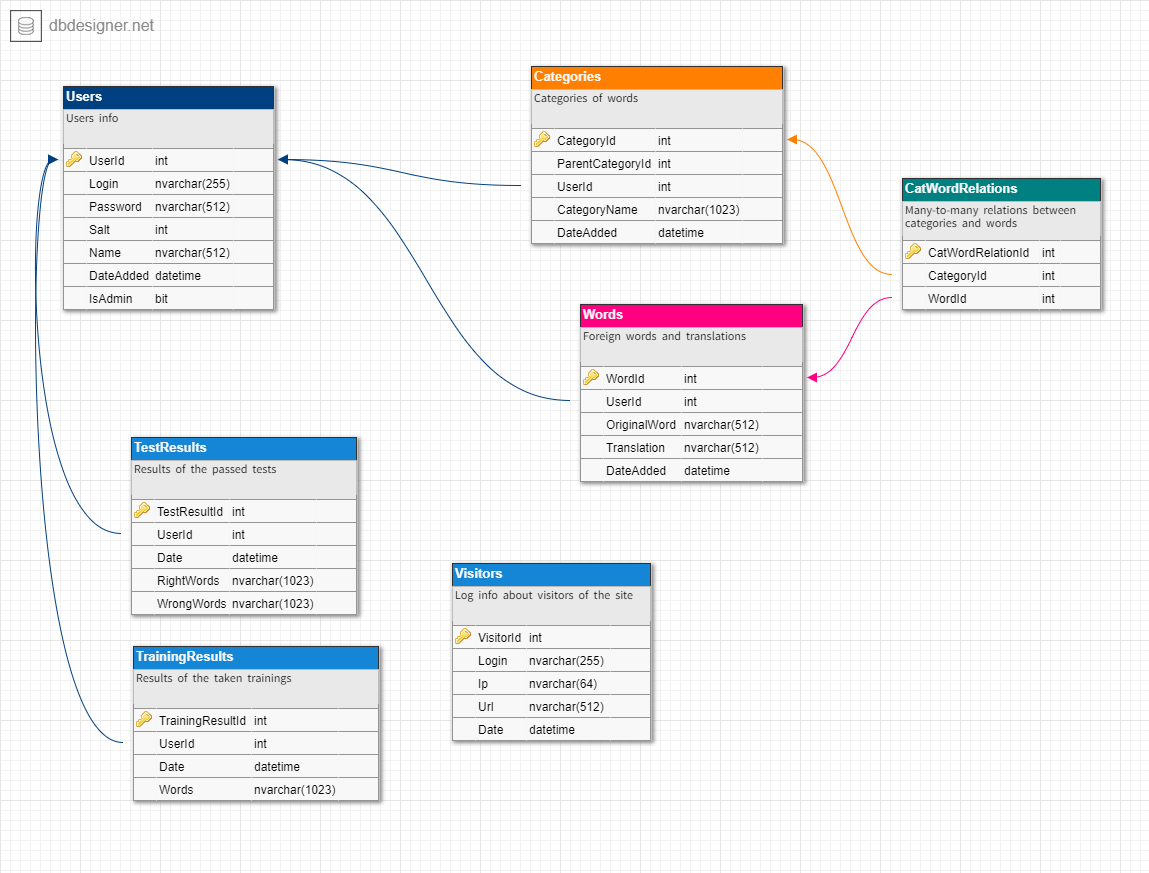
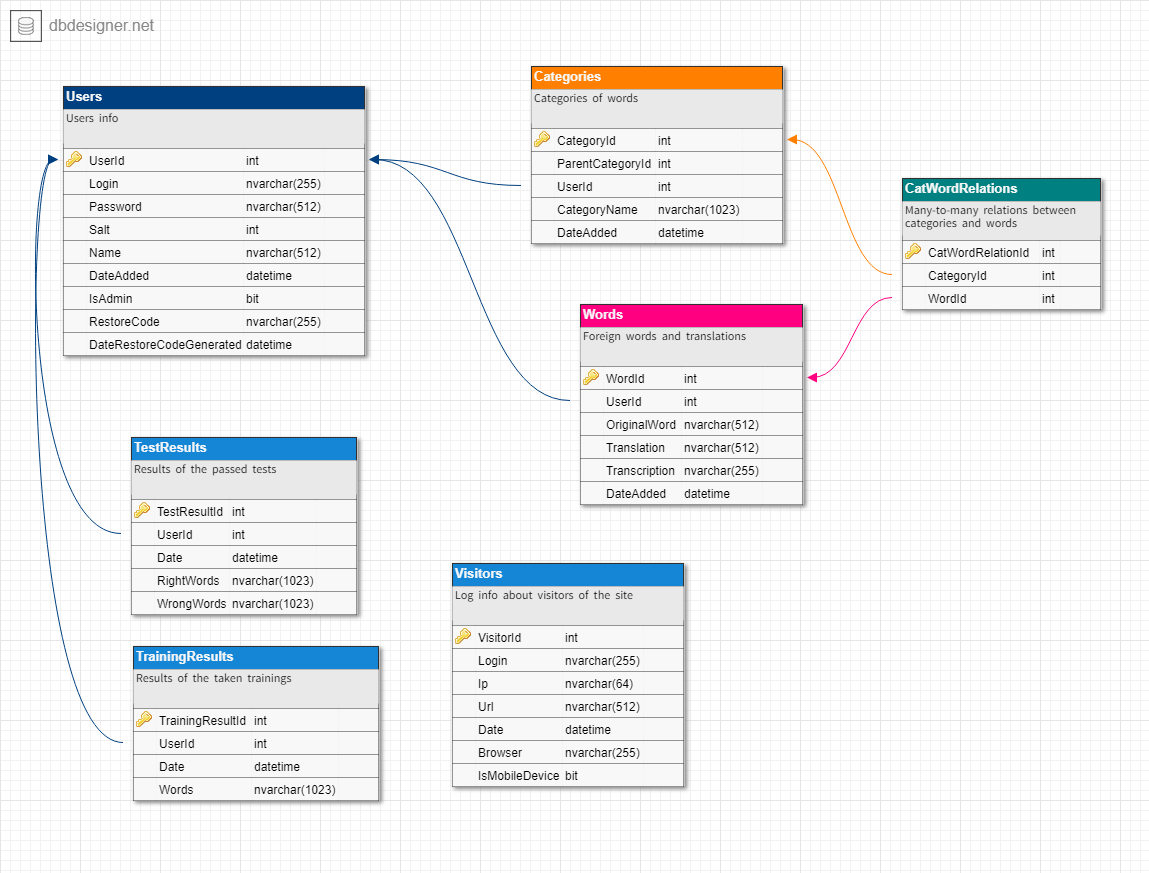
Implemented functionality of restoring password

diff --git a/Linguist.Web/Scripts/loginController.js b/Linguist.Web/Scripts/loginController.js
@@ -1,0 +1,82 @@
+var loginWarning,
+    resetBtn,
+    submitBtn;
+
+window.onload = start;
+
+function start() {
+    loginWarning = document.getElementById("login-warning");
+    resetBtn = document.getElementById("reset-btn");
+    submitBtn = document.getElementById("submit-btn");
+
+    resetBtn.onclick = resetHandler;
+    submitBtn.onclick = submitHandler;
+
+    $("form").submit(function (e) {
+        e.preventDefault();
+    });
+
+    $("#login-input").on("keyup", function () {
+        clearMessage();
+    });
+}
+
+var resetHandler = function() {
+    clearMessage();
+    var login = document.getElementById("login-input").value;
+    validateLogin(login, resetAction);
+}
+
+var resetAction = function() {
+    var login = document.getElementById("login-input").value;
+    $.get("/Options/SendResetMail",
+        {
+            login: login
+        },
+        function () {
+            alert("На указанный вами адрес (логин) отправлено письмо со ссылкой для смены пароля");
+        });
+}
+
+var submitHandler = function() {
+    clearMessage();
+    var login = document.getElementById("login-input").value;
+    validateLogin(login, submitAction);
+}
+
+var submitAction = function() {
+    $("form").unbind('submit').submit();
+}
+
+var clearMessage = function() {
+    loginWarning.innerHTML = "";
+}
+
+var setRedMessage = function(text) {
+    loginWarning.innerHTML = text;
+    loginWarning.style.color = "red";
+}
+
+var checkLoginForExistence = function (login, successCallback) {
+    $.get("/Account/DoesLoginExist",
+        {
+            login: login
+        },
+        function (data) {
+            if (data === "True") {
+                successCallback();
+                return;
+            }
+
+            setRedMessage("Введённый логин не найден");
+        });
+}
+
+var validateLogin = function (login, successCallback) {
+    if (login === "") {
+        setRedMessage("Введите логин");
+        return;
+    }
+
+    checkLoginForExistence(login, successCallback);
+}

diff --git a/Linguist.Web/Controllers/OptionsController.cs b/Linguist.Web/Controllers/OptionsController.cs
@@ -1,5 +1,7 @@
 using System.Web.Mvc;
+using System.Web.Routing;
 using Linguist.Services.Interfaces;
+using Linguist.Web.Models;
 
 namespace Linguist.Web.Controllers
 {
@@ -8,16 +10,14 @@ namespace Linguist.Web.Controllers
         private readonly IAccountsService _accountsService;
         private readonly IUsersService _userService;
         private readonly IWordsService _wordsService;
-        private readonly ICategoriesService _categoriesService;
-        private readonly ILogsService _logsService;
+        private readonly IMailService _mailService;
 
-        public OptionsController(IAccountsService accountsService, IUsersService userService, IWordsService wordsService, ICategoriesService categoriesService, ILogsService logsService)
+        public OptionsController(IAccountsService accountsService, IUsersService userService, IWordsService wordsService, IMailService mailService)
         {
             _accountsService = accountsService;
             _userService = userService;
             _wordsService = wordsService;
-            _categoriesService = categoriesService;
-            _logsService = logsService;
+            _mailService = mailService;
         }
 
         public ActionResult Main()
@@ -77,6 +77,45 @@ namespace Linguist.Web.Controllers
             }
 
             return false;
+        }
+
+        public void SendResetMail(string login)
+        {
+            if (_userService.DoesLoginExist(login))
+            {
+                var restoreCode = _accountsService.GenerateRestoreCode(login);
+
+                var subject = "Linguist: Reseting password";
+                
+                string link = Url.Action("ResetPassword", "Options",
+                    new RouteValueDictionary(new { restoreCode }),
+                    HttpContext.Request.Url.Scheme);
+
+                var text = $"To reset password on Linguist site for login {login} click on {link}";
+
+                _mailService.SendMail(login, text, subject);
+            }
+        }
+
+        public ActionResult ResetPassword(string restoreCode)
+        {
+            var login = _userService.GetUserByRestoreCode(restoreCode).Login;
+            return View(new ResetViewModel{ Login = login ?? ""});
+        }
+
+        [HttpPost]
+        public string ResetPassword(ResetViewModel model)
+        {
+            var user = _userService.GetUserByLogin(model.Login);
+
+            if (_accountsService.SetPassword(model.Login, model.Password))
+            {
+                user.RestoreCode = null;
+                _userService.EditUser(user);
+                return "Password changed";
+            }
+
+            return "Error while changing password";
         }
     }
 }

diff --git a/Linguist.Services/Implementation/MailService.cs b/Linguist.Services/Implementation/MailService.cs
@@ -1,0 +1,32 @@
+using System.Text;
+using Linguist.Services.Interfaces;
+using System.Net.Mail;
+
+namespace Linguist.Services.Implementation
+{
+    public class MailService : IMailService
+    {
+        private readonly IMailProvider _mailProvider;
+
+        public MailService(IMailProvider mailProvider)
+        {
+            _mailProvider = mailProvider;
+        }
+
+        public void SendMail(string mailAddress, string text, string subject)
+        {
+            MailMessage mail = new MailMessage
+            {
+                From = new MailAddress(_mailProvider.SiteMailAddress, "Linguist Labs"),
+                SubjectEncoding = Encoding.UTF8,
+                BodyEncoding = Encoding.UTF8,
+                Subject = subject,
+                Body = text
+            };
+
+            mail.To.Add(new MailAddress(mailAddress));
+
+            _mailProvider.GetSmtpClient().Send(mail);
+        }
+    }
+}

diff --git a/Linguist.Services/Implementation/MailProvider.cs b/Linguist.Services/Implementation/MailProvider.cs
@@ -1,0 +1,28 @@
+using System.Net.Mail;
+using Linguist.Services.Interfaces;
+
+namespace Linguist.Services.Implementation
+{
+    public class MailProvider : IMailProvider
+    {
+        private string Host => "smtp.gmail.com";
+        private int Port => 587;
+        private string UserName => "linguistlabs@gmail.com";
+        private string Password => "trh1829G_k";
+
+        public SmtpClient GetSmtpClient()
+        {
+            var smtpClient =
+                new SmtpClient(Host, Port)
+                {
+                    Credentials = new System.Net.NetworkCredential(UserName, Password),
+                    DeliveryMethod = SmtpDeliveryMethod.Network,
+                    EnableSsl = true
+                };
+
+            return smtpClient;
+        }
+
+        public string SiteMailAddress => "linguistlabs@gmail.com";
+    }
+}

diff --git a/Linguist.Services/DI/ServServiceModule.cs b/Linguist.Services/DI/ServServiceModule.cs
@@ -1,6 +1,8 @@
 using Linguist.DataLayer.Model;
 using Linguist.DataLayer.Repositories;
 using Linguist.DataLayer.Repositories.LogRepositories;
+using Linguist.Services.Implementation;
+using Linguist.Services.Interfaces;
 using Ninject.Modules;
 
 namespace Linguist.Services.DI
@@ -17,6 +19,8 @@ namespace Linguist.Services.DI
             Bind<IRepository<TestResult>>().To<TestResultsRepository>();
             Bind<IRepository<TrainingResult>>().To<TrainingResultsRepository>();
             Bind<IRepository<Visitor>>().To<VisitorsRepository>();
+
+            Bind<IMailProvider>().To<MailProvider>();
         }
     }
 }

diff --git a/Linguist.Services/Implementation/AccountsService.cs b/Linguist.Services/Implementation/AccountsService.cs
@@ -78,5 +78,21 @@ namespace Linguist.Services.Implementation
 
             return _usersRepository.Edit(user) > 0;
         }
+
+        public string GenerateRestoreCode(string login)
+        {
+            User user = _usersRepository.GetAll().FirstOrDefault(u => u.Login == login);
+
+            if (user == null)
+                return null;
+
+            var code = "some code";
+
+            user.RestoreCode = code;
+            user.DateRestoreCodeGenerated = DateTime.UtcNow;
+            _usersRepository.Edit(user);
+
+            return code;
+        }
     }
 }

diff --git a/Linguist.Services/Implementation/UsersService.cs b/Linguist.Services/Implementation/UsersService.cs
@@ -53,6 +53,11 @@ namespace Linguist.Services.Implementation
             return _usersRepository.GetAll().FirstOrDefault(u => u.Login.Equals(login));
         }
 
+        public User GetUserByRestoreCode(string restoreCode)
+        {
+            return _usersRepository.GetAll().FirstOrDefault(u => u.RestoreCode == restoreCode);
+        }
+
         public IEnumerable<Word> GetUserWords(string login)
         {
             if (login == null)

diff --git a/Linguist.Web/Infrastructure/NinjectDependencyResolver.cs b/Linguist.Web/Infrastructure/NinjectDependencyResolver.cs
@@ -26,6 +26,7 @@ namespace Linguist.Web.Infrastructure
             _kernel.Bind<IWordsService>().To<WordsService>();
             _kernel.Bind<IResultsService>().To<ResultsService>();
             _kernel.Bind<ILogsService>().To<LogsService>();
+            _kernel.Bind<IMailService>().To<MailService>();
         }
 
         public object GetService(Type serviceType)

diff --git a/Linguist.Services/Interfaces/IUsersService.cs b/Linguist.Services/Interfaces/IUsersService.cs
@@ -15,6 +15,8 @@ namespace Linguist.Services.Interfaces
 
         User GetUserByLogin(string login);
 
+        User GetUserByRestoreCode(string restoreCode);
+
         IEnumerable<Word> GetUserWords(string login);
 
         IEnumerable<Category> GetUserCategories(string login);

diff --git a/Linguist.DataLayer/Model/User.cs b/Linguist.DataLayer/Model/User.cs
@@ -17,5 +17,9 @@ namespace Linguist.DataLayer.Model
         public DateTime DateAdded { get; set; }
 
         public bool IsAdmin { get; set; }
+
+        public string RestoreCode { get; set; }
+
+        public DateTime? DateRestoreCodeGenerated { get; set; }
     }
 }

diff --git a/Linguist.Web/Models/ResetViewModel.cs b/Linguist.Web/Models/ResetViewModel.cs
@@ -1,0 +1,9 @@
+namespace Linguist.Web.Models
+{
+    public class ResetViewModel
+    {
+        public string Login { get; set; }
+        public string Message { get; set; }
+        public string Password { get; set; }
+    }
+}

diff --git a/Linguist.Services/Interfaces/IAccountsService.cs b/Linguist.Services/Interfaces/IAccountsService.cs
@@ -13,5 +13,7 @@ namespace Linguist.Services.Interfaces
         string GetUserName(HttpContext context);
 
         bool SetPassword(string login, string password);
+
+        string GenerateRestoreCode(string login);
     }
 }
